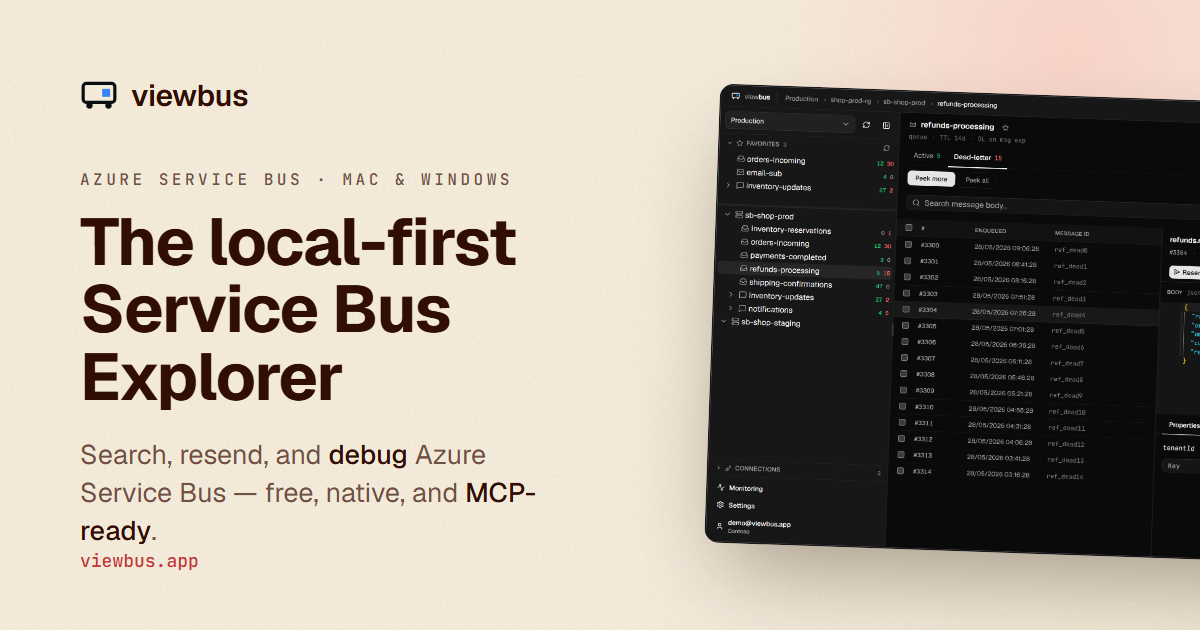
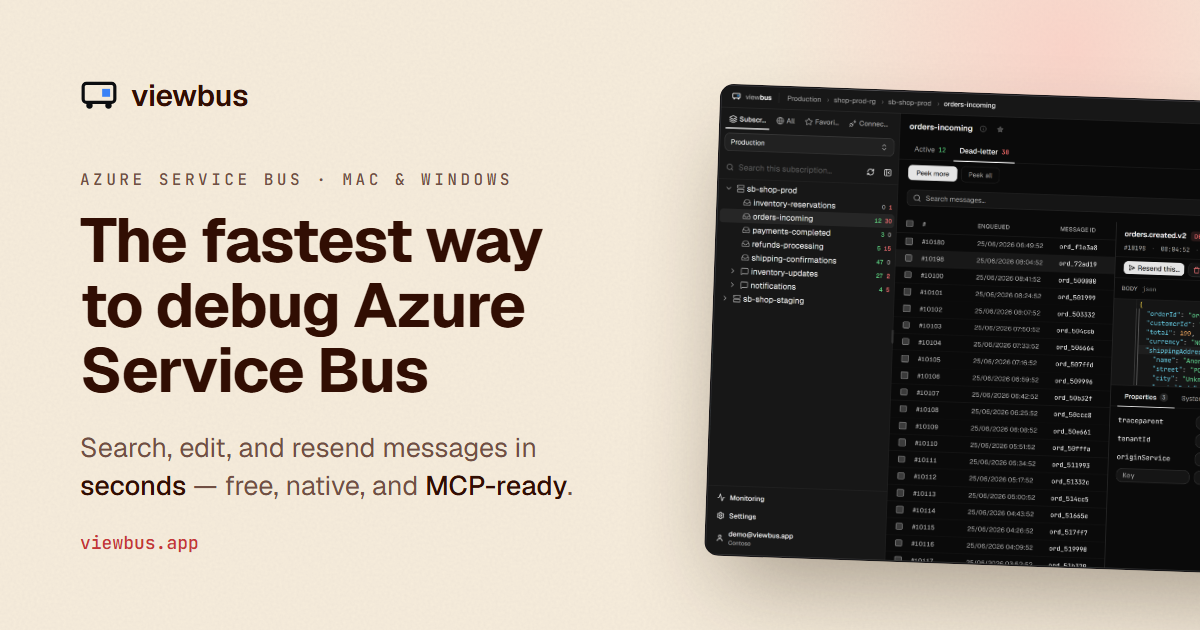
[Patch] Align the pitch across H1, OG card, and app schema

diff --git a/og-card.html b/og-card.html
@@ -83,9 +83,10 @@
         text-transform: uppercase;
         color: var(--muted);
       }
-      h1 { margin-top: 18px; font-size: 66px; font-weight: 700; line-height: 1.02; letter-spacing: -0.02em; }
+      h1 { margin-top: 18px; font-size: 62px; font-weight: 700; line-height: 1.05; letter-spacing: -0.02em; }
       .sub { margin-top: 26px; font-size: 27px; line-height: 1.4; color: var(--muted); max-width: 560px; }
-      .sub .em { color: var(--fg); font-weight: 500; }
+      /* nowrap so compounds like "MCP-ready" never break across lines. */
+      .sub .em { color: var(--fg); font-weight: 500; white-space: nowrap; }
       .url { margin-top: auto; font-family: var(--font-mono); font-size: 18px; font-weight: 500; color: var(--accent); }
 
       .shot {
@@ -121,9 +122,9 @@
         </div>
 
         <p class="eyebrow">Azure Service Bus · Mac &amp; Windows</p>
-        <h1>The local-first Service&nbsp;Bus Explorer</h1>
+        <h1>The fastest way to debug Azure Service&nbsp;Bus</h1>
         <p class="sub">
-          Search, resend, and <span class="em">debug</span> Azure Service Bus —
+          Search, edit, and resend messages in <span class="em">seconds</span> —
           free, native, and <span class="em">MCP-ready</span>.
         </p>
 
